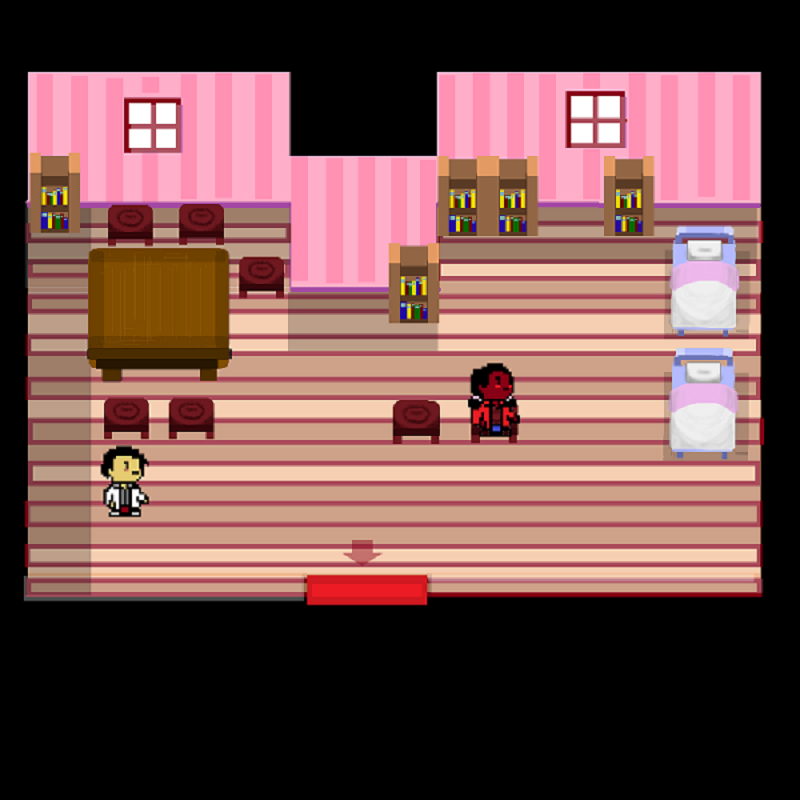
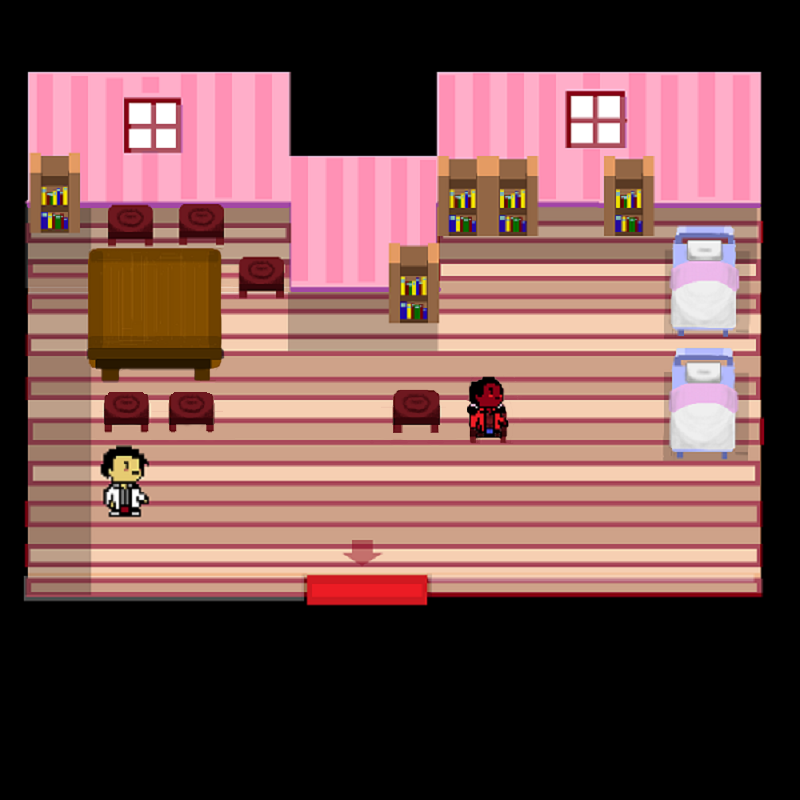
Update map 1 terminée

Changed region(s): [[0.125, 0.3125, 0.3125, 0.5625], [0.4688, 0.4375, 0.6562, 0.5625]]

diff --git a/VariablesDeJeu.java b/VariablesDeJeu.java
@@ -14,9 +14,9 @@ public class VariablesDeJeu {//création de l'unique Jframe
 		public int [] listeInterractionsAvecDresseurs  = new int[60]; //tableau contenenant la liste des combats et leur état : 0= pas fait, 1 perdu, 2 gagné
 		public String nomCarte;
 		private int listeInterractionsAvecDresseursInitiale [] = {0,0,0,0,0,0,0,0,0,0,0,0,0,0,0,0,0,0,0,0,0,0,0,0,0,0,0,0,0,0,0,0,0,0,0,0,0,0,0,0,0,0,0,0,0,0,0,0,0,0,0,0,0,0,0,0,0,0,0,0};
-		private int taTurne [][] = { {0,0,0,0,0,0,0,0,0,0,0,0,0,0,0,0,0,0,0,0,0,0,0,0,0},{0,0,0,0,0,0,0,0,0,0,0,0,0,0,0,0,0,0,0,0,0,0,0,0,0},{0,0,0,0,0,0,0,0,0,0,0,0,0,0,0,0,0,0,0,0,0,0,0,0,0},{0,0,0,0,0,0,0,0,0,0,0,0,0,0,0,0,0,0,0,0,0,0,0,0,0},{0,0,0,0,0,0,0,0,0,0,0,0,0,0,0,0,0,0,0,0,0,0,0,0,0},{0,0,0,0,0,0,0,0,0,0,0,0,0,0,0,0,0,0,0,0,0,0,0,0,0},{0,0,0,0,0,0,0,0,0,0,0,0,0,0,0,0,0,0,0,0,0,0,0,0,0},{0,0,0,0,1,1,1,1,1,0,0,0,0,0,0,0,0,0,1,1,1,1,1,1,0},{0,1,1,1,1,1,1,1,1,0,0,0,0,0,1,1,1,1,1,1,1,1,1,1,0},{0,1,1,1,1,1,1,1,1,0,0,0,1,1,1,1,1,1,1,1,1,1,1,1,0},{0,1,1,1,1,1,1,1,1,1,1,1,1,1,1,1,1,1,1,1,1,1,1,1,0},{0,1,1,1,201,201,201,0,0,0,0,0,0,0,0,1,1,1,1,1,1,1,1,1,0},{0,0,0,0,201,2,201,1,0,0,0,0,0,1,1,1,1,1,1,1,1,1,1,1,0},{0,0,0,0,201,2,201,0,0,0,0,0,0,0,0,1,1,1,1,1,1,1,1,1,0},{0,0,0,0,201,201,201,1,0,0,0,0,0,1,1,1,1,1,1,1,1,1,1,1,0},{0,1,1,1,1,1,1,1,1,1,1,1,1,1,1,1,1,1,1,1,1,1,1,1,0},{0,1,1,1,1,1,1,1,1,1,1,1,1,1,1,1,1,1,1,1,1,1,1,1,0},{0,1,1,1,1,1,1,1,1,1,1,4102,1,1,1,1,1,1,1,1,1,1,1,1,0},{0,1,1,1,1,1,1,1,1,4102,4102,4102,4102,4102,1,1,1,1,1,1,1,1,1,1,0},{0,0,0,0,0,0,0,0,0,4102,4102,4102,4102,4102,0,0,0,0,0,0,0,0,0,0,0},{0,0,0,0,0,0,0,0,0,0,0,0,0,0,0,0,0,0,0,0,0,0,0,0,0},{0,0,0,0,0,0,0,0,0,0,0,0,0,0,0,0,0,0,0,0,0,0,0,0,0},{0,0,0,0,0,0,0,0,0,0,0,0,0,0,0,0,0,0,0,0,0,0,0,0,0},{0,0,0,0,0,0,0,0,0,0,0,0,0,0,0,0,0,0,0,0,0,0,0,0,0},{0,0,0,0,0,0,0,0,0,0,0,0,0,0,0,0,0,0,0,0,0,0,0,0,0} };
-		private	int laFeyssine [][] = { {0,0,4105,4105,4105,0,0,0,0,0,0,0,0,0,0,0,0,0,0,0,0,0,0,0,0},{0,0,4105,4105,4105,0,0,0,0,0,0,0,0,0,0,0,0,0,0,0,0,0,0,0,0},{0,0,202,202,202,0,0,0,0,0,0,0,1,1,1,1,0,0,0,0,0,0,0,0,0},{0,0,2,202,202,0,0,0,0,0,0,2,203,1,1,1,0,0,0,0,0,0,0,0,0},{0,0,2,202,202,202,0,0,0,0,0,2,203,1,1,1,0,0,0,0,0,0,0,0,0},{0,0,202,202,202,1,0,0,0,0,0,203,203,1,1,1,0,0,0,0,0,0,0,0,0},{0,0,1,1,1,0,0,0,0,0,0,1,1,0,0,0,0,0,0,0,0,0,0,0,0},{0,0,1,1,1,0,0,0,0,0,0,1,1,0,0,0,0,0,0,0,0,0,0,0,0},{0,0,1,1,1,0,0,0,0,0,0,1,1,0,0,0,0,4101,4101,4101,0,0,0,0,0},{0,0,1,1,1,1,1,1,1,1,1,1,1,0,0,0,0,4101,4101,4101,0,0,0,0,0},{0,0,1,1,1,1,0,0,0,0,0,1,1,0,0,0,1,1,1,1,1,1,1,0,0},{0,0,1,1,1,1,0,0,0,0,0,1,1,0,0,0,1,1,1,1,1,1,1,0,0},{0,0,1,1,1,1,0,0,0,0,0,1,1,1,1,1,1,1,1,1,1,1,1,0,0},{0,0,1,1,1,1,0,0,0,0,0,1,1,1,1,1,0,0,0,0,0,0,0,0,0},{0,0,1,1,1,1,0,0,0,0,0,1,1,1,1,1,0,0,0,0,0,0,0,0,0},{0,0,1,1,1,1,0,0,0,0,0,1,1,1,1,1,0,0,0,0,0,0,0,0,0},{0,0,1,1,1,1,0,0,0,0,0,1,1,1,1,1,0,0,0,0,0,0,0,0,0},{0,0,1,1,1,1,0,0,0,0,0,1,1,204,204,0,0,0,4103,0,0,0,0,0,0},{0,0,1,1,1,1,0,0,0,0,0,1,1,204,2,0,0,4103,4103,0,0,0,0,0,0},{0,0,1,1,1,1,0,0,0,0,0,1,1,204,2,0,0,0,4103,0,0,0,0,0,0},{0,0,1,1,1,1,0,0,0,0,0,1,1,204,204,204,1,1,1,1,1,1,1,0,0},{0,0,1,1,1,1,0,0,0,0,0,1,1,1,1,1,1,1,1,1,1,1,1,0,0},{0,0,1,1,1,1,0,0,0,0,0,0,0,0,0,0,0,0,0,0,0,0,0,0,0},{0,0,0,0,0,0,0,0,0,0,0,0,0,0,0,0,0,0,0,0,0,0,0,0,0},{0,0,0,0,0,0,0,0,0,0,0,0,0,0,0,0,0,0,0,0,0,0,0,0,0}};
-		private int turneVoisin [][] = { {0,0,0,0,0,0,0,0,0,0,0,0,0,0,0,0,0,0,0,0,0,0,0,0,0},{0,0,0,0,0,0,0,0,0,0,0,0,0,0,0,0,0,0,0,0,0,0,0,0,0},{0,0,0,0,0,0,0,0,0,0,0,0,0,0,0,0,0,0,0,0,0,0,0,0,0},{0,0,0,0,0,0,0,0,0,0,0,0,0,0,0,0,0,0,0,0,0,0,0,0,0},{0,0,0,0,0,0,0,0,0,0,0,0,0,0,0,0,0,0,0,0,0,0,0,0,0},{0,0,0,0,0,0,0,0,0,0,0,0,0,0,0,0,0,0,0,0,0,0,0,0,0},{0,0,0,0,0,0,0,0,0,0,0,0,0,0,0,0,0,0,0,0,0,0,0,0,0},{0,0,0,0,0,0,0,0,0,0,0,0,0,0,0,0,0,1,0,0,0,0,0,0,0},{0,1,1,0,0,0,0,0,0,0,0,0,0,0,1,1,1,1,1,1,1,0,0,0,0},{0,1,1,0,0,0,0,1,1,1,1,1,0,0,1,1,1,1,1,1,1,0,0,0,0},{0,1,1,0,0,0,0,1,1,1,1,1,1,1,1,1,1,1,1,1,1,0,0,0,0},{0,1,1,0,0,0,0,1,1,1,1,1,1,1,1,205,205,205,1,1,1,0,0,0,0},{0,1,1,0,0,0,0,1,1,1,1,1,0,0,205,2,205,1,1,1,1,0,0,0,0},{0,1,1,206,206,206,1,1,1,1,1,1,1,1,205,2,205,1,1,1,1,0,0,0,0},{0,1,206,2,2,206,1,1,1,1,1,1,1,1,205,205,205,1,1,1,1,1,1,0,0},{0,1,206,2,2,206,1,1,1,1,1,1,1,1,1,1,1,1,1,1,1,1,1,0,0},{0,1,1,206,206,206,1,1,1,1,1,1,1,1,1,1,1,1,1,1,1,1,1,0,0},{0,1,1,1,1,1,1,1,1,1,1,4104,1,1,1,1,1,1,1,1,1,1,1,0,0},{0,1,1,1,1,1,1,1,1,4104,4104,4104,4104,4104,1,1,1,1,1,1,1,1,1,0,0},{0,0,0,0,0,0,0,0,0,4104,4104,4104,4104,4104,0,0,0,0,0,0,0,0,0,0,0},{0,0,0,0,0,0,0,0,0,0,0,0,0,0,0,0,0,0,0,0,0,0,0,0,0},{0,0,0,0,0,0,0,0,0,0,0,0,0,0,0,0,0,0,0,0,0,0,0,0,0},{0,0,0,0,0,0,0,0,0,0,0,0,0,0,0,0,0,0,0,0,0,0,0,0,0},{0,0,0,0,0,0,0,0,0,0,0,0,0,0,0,0,0,0,0,0,0,0,0,0,0},{0,0,0,0,0,0,0,0,0,0,0,0,0,0,0,0,0,0,0,0,0,0,0,0,0}};	
+		private int taTurne [][] = { {0,0,0,0,0,0,0,0,0,0,0,0,0,0,0,0,0,0,0,0,0,0,0,0,0},{0,0,0,0,0,0,0,0,0,0,0,0,0,0,0,0,0,0,0,0,0,0,0,0,0},{0,0,0,0,0,0,0,0,0,0,0,0,0,0,0,0,0,0,0,0,0,0,0,0,0},{0,0,0,0,0,0,0,0,0,0,0,0,0,0,0,0,0,0,0,0,0,0,0,0,0},{0,0,0,0,0,0,0,0,0,0,0,0,0,0,0,0,0,0,0,0,0,0,0,0,0},{0,0,0,0,0,0,0,0,0,0,0,0,0,0,0,0,0,0,0,0,0,0,0,0,0},{0,0,0,0,0,0,0,0,0,0,0,0,0,0,0,0,0,0,0,0,0,0,0,0,0},{0,0,0,0,1,1,1,1,1,0,0,0,0,0,0,0,0,0,1,1,1,1,1,1,0},{0,1,1,1,1,1,1,1,1,0,0,0,0,0,1,1,1,1,1,1,1,1,1,1,0},{0,1,1,1,1,1,1,1,1,0,0,0,1,1,1,1,1,1,1,1,1,1,1,1,0},{0,1,1,1,1,1,1,1,1,1,1,1,1,1,1,1,1,1,1,1,1,1,1,1,0},{0,1,1,1,201,201,201,0,0,0,0,0,0,0,0,1,1,1,1,1,1,1,1,1,0},{0,0,0,0,201,2,201,1,1,0,0,0,0,1,1,1,1,1,1,1,1,1,1,1,0},{0,0,0,0,201,2,201,0,0,0,0,0,0,0,0,1,1,1,1,1,1,1,1,1,0},{0,0,0,0,201,201,201,1,0,0,0,0,0,1,1,1,1,1,1,1,1,1,1,1,0},{0,1,1,1,1,1,1,1,1,1,1,1,1,1,1,1,1,1,1,1,1,1,1,1,0},{0,1,1,1,1,1,1,1,1,1,1,1,1,1,1,1,1,1,1,1,1,1,1,1,0},{0,1,1,1,1,1,1,1,1,1,1,4102,1,1,1,1,1,1,1,1,1,1,1,1,0},{0,1,1,1,1,1,1,1,1,1,4102,4102,4102,4102,1,1,1,1,1,1,1,1,1,1,0},{0,0,0,0,0,0,0,0,0,4102,4102,4102,4102,4102,0,0,0,0,0,0,0,0,0,0,0},{0,0,0,0,0,0,0,0,0,0,0,0,0,0,0,0,0,0,0,0,0,0,0,0,0},{0,0,0,0,0,0,0,0,0,0,0,0,0,0,0,0,0,0,0,0,0,0,0,0,0},{0,0,0,0,0,0,0,0,0,0,0,0,0,0,0,0,0,0,0,0,0,0,0,0,0},{0,0,0,0,0,0,0,0,0,0,0,0,0,0,0,0,0,0,0,0,0,0,0,0,0},{0,0,0,0,0,0,0,0,0,0,0,0,0,0,0,0,0,0,0,0,0,0,0,0,0} };
+		private	int laFeyssine [][] = { {0,0,4105,4105,4105,0,0,0,0,0,0,0,0,0,0,0,0,0,0,0,0,0,0,0,0},{0,0,4105,4105,4105,0,0,0,0,0,0,0,0,0,0,0,0,0,0,0,0,0,0,0,0},{0,0,202,202,202,0,0,0,0,0,0,0,1,1,1,1,0,0,0,0,0,0,0,0,0},{0,0,2,202,202,0,0,0,0,0,0,2,203,1,1,1,0,0,0,0,0,0,0,0,0},{0,0,2,202,202,202,0,0,0,0,0,2,203,1,1,1,0,0,0,0,0,0,0,0,0},{0,0,202,202,202,1,0,0,0,0,0,203,203,1,1,1,0,0,0,0,0,0,0,0,0},{0,0,1,1,1,0,0,0,0,0,0,1,1,0,0,0,0,0,0,0,0,0,0,0,0},{0,0,1,1,1,0,0,0,0,0,0,1,1,0,0,0,0,0,0,0,0,0,0,0,0},{0,0,1,1,1,0,0,0,0,0,0,1,1,0,0,0,0,4101,4101,4101,0,0,0,0,0},{0,0,1,1,1,1,0,1,1,1,0,1,1,0,0,0,0,4101,4101,4101,0,0,0,0,0},{0,0,1,1,1,1,1,0,0,0,1,1,1,0,0,0,1,1,1,1,1,1,1,0,0},{0,0,1,1,1,1,0,0,0,0,0,1,1,0,0,0,1,1,1,1,1,1,1,0,0},{0,0,1,1,1,1,0,0,0,0,0,1,1,1,1,1,1,1,1,1,1,1,1,0,0},{0,0,1,1,1,1,0,0,0,0,0,1,1,1,1,1,0,0,0,0,0,0,0,0,0},{0,0,1,1,1,1,0,0,0,0,0,1,1,1,1,1,0,0,0,0,0,0,0,0,0},{0,0,1,1,1,1,0,0,0,0,0,1,1,1,1,1,0,0,0,0,0,0,0,0,0},{0,0,1,1,1,1,0,0,0,0,0,1,1,1,1,1,0,0,0,0,0,0,0,0,0},{0,0,1,1,1,1,0,0,0,0,0,1,1,204,204,0,0,0,4103,0,0,0,0,0,0},{0,0,1,1,1,1,0,0,0,0,0,1,1,204,2,0,0,4103,4103,0,0,0,0,0,0},{0,0,1,1,1,1,0,0,0,0,0,1,1,204,2,0,0,0,4103,0,0,0,0,0,0},{0,0,1,1,1,1,0,0,0,0,0,1,1,204,204,204,1,1,1,1,1,1,1,0,0},{0,0,1,1,1,1,0,0,0,0,0,1,1,1,1,1,1,1,1,1,1,1,1,0,0},{0,0,1,1,1,1,0,0,0,0,0,0,0,0,0,0,0,0,0,0,0,0,0,0,0},{0,0,0,0,0,0,0,0,0,0,0,0,0,0,0,0,0,0,0,0,0,0,0,0,0},{0,0,0,0,0,0,0,0,0,0,0,0,0,0,0,0,0,0,0,0,0,0,0,0,0}};
+		private int turneVoisin [][] = { {0,0,0,0,0,0,0,0,0,0,0,0,0,0,0,0,0,0,0,0,0,0,0,0,0},{0,0,0,0,0,0,0,0,0,0,0,0,0,0,0,0,0,0,0,0,0,0,0,0,0},{0,0,0,0,0,0,0,0,0,0,0,0,0,0,0,0,0,0,0,0,0,0,0,0,0},{0,0,0,0,0,0,0,0,0,0,0,0,0,0,0,0,0,0,0,0,0,0,0,0,0},{0,0,0,0,0,0,0,0,0,0,0,0,0,0,0,0,0,0,0,0,0,0,0,0,0},{0,0,0,0,0,0,0,0,0,0,0,0,0,0,0,0,0,0,0,0,0,0,0,0,0},{0,0,0,0,0,0,0,0,0,0,0,0,0,0,0,0,0,0,0,0,0,0,0,0,0},{0,0,0,0,0,0,0,0,0,0,0,0,0,0,0,0,0,1,0,0,0,0,0,0,0},{0,1,1,0,0,0,0,0,0,0,0,0,0,0,1,1,1,1,1,1,1,0,0,0,0},{0,1,1,0,0,0,0,1,1,1,1,1,0,0,1,1,1,1,1,1,1,0,0,0,0},{0,1,1,0,0,0,0,1,1,1,1,1,1,1,1,1,1,1,1,1,1,0,0,0,0},{0,1,1,0,0,0,0,1,1,1,1,1,1,1,1,205,205,205,1,1,1,0,0,0,0},{0,1,1,0,0,0,0,1,1,1,1,1,0,0,205,2,205,1,1,1,1,0,0,0,0},{0,1,1,206,206,206,1,1,1,1,1,1,1,1,205,2,205,1,1,1,1,0,0,0,0},{0,1,206,2,2,206,1,1,1,1,1,1,1,1,205,205,205,1,1,1,1,1,1,0,0},{0,1,206,2,2,206,1,1,1,1,1,1,1,1,1,1,1,1,1,1,1,1,1,0,0},{0,1,1,206,206,206,1,1,1,1,1,1,1,1,1,1,1,1,1,1,1,1,1,0,0},{0,1,1,1,1,1,1,1,1,1,1,4104,1,1,1,1,1,1,1,1,1,1,1,0,0},{0,1,1,1,1,1,1,1,1,1,4104,4104,4104,4104,1,1,1,1,1,1,1,1,1,0,0},{0,0,0,0,0,0,0,0,0,4104,4104,4104,4104,4104,0,0,0,0,0,0,0,0,0,0,0},{0,0,0,0,0,0,0,0,0,0,0,0,0,0,0,0,0,0,0,0,0,0,0,0,0},{0,0,0,0,0,0,0,0,0,0,0,0,0,0,0,0,0,0,0,0,0,0,0,0,0},{0,0,0,0,0,0,0,0,0,0,0,0,0,0,0,0,0,0,0,0,0,0,0,0,0},{0,0,0,0,0,0,0,0,0,0,0,0,0,0,0,0,0,0,0,0,0,0,0,0,0},{0,0,0,0,0,0,0,0,0,0,0,0,0,0,0,0,0,0,0,0,0,0,0,0,0}};	
 		private	int travee1 [][] = {{0,0,0,0,0,0,0,0,0,0,0,0,0,0,0,0,0,0,0,0,0,4202,4202,4202,0},{0,0,3,3,307,5,5,5,5,5,5,5,1,1,1,1,1,1,6,6,6,4202,4202,4202,0},{0,0,307,307,307,5,5,5,1,1,5,1,1,1,1,1,1,1,6,6,6,6,1,0,0},{0,0,0,0,0,0,0,0,0,0,1,0,0,0,0,0,0,0,0,0,0,0,1,0,0},{0,0,0,0,0,0,0,0,0,0,1,0,0,0,0,0,0,0,0,0,0,0,1,0,0},{0,0,0,0,0,0,0,0,0,0,1,0,0,0,0,0,0,0,0,0,0,0,5,0,0},{0,0,0,0,0,0,0,0,0,0,1,0,0,0,0,0,0,0,0,0,0,0,5,0,0},{0,0,0,1,1,1,1,1,1,1,5,5,5,5,5,5,5,1,1,5,5,5,5,0,0},{0,0,0,1,1,1,1,1,1,1,5,5,5,5,5,5,5,5,5,5,5,5,5,0,0},{0,0,0,0,0,0,0,0,0,0,0,5,1,1,5,5,5,5,1,6,6,6,1,0,0},{0,0,0,0,0,0,0,0,0,0,0,1,1,1,5,5,5,5,6,6,6,6,1,0,0},{0,0,0,0,0,0,0,0,0,0,0,1,1,1,1,5,0,0,0,0,0,0,0,0,0},{0,0,0,0,0,0,0,0,0,0,0,1,1,1,1,5,0,0,0,0,0,0,0,0,0},{0,0,0,3,308,5,5,5,5,5,1,1,1,1,5,5,0,0,0,0,0,0,0,0,0},{0,0,0,3,308,5,5,5,5,5,1,1,1,1,5,5,0,0,0,0,0,0,0,0,0},{0,0,0,308,308,5,5,5,5,1,6,6,6,1,1,5,5,5,5,1,1,309,3,0,0},{0,0,0,1,1,5,5,5,5,6,6,6,6,1,1,1,1,1,1,1,1,309,309,0,0},{0,0,0,0,0,0,0,0,0,0,0,0,0,0,0,1,1,0,0,0,0,0,0,0,0},{0,0,0,0,0,0,0,0,0,0,0,0,0,0,0,1,1,0,0,0,0,0,0,0,0},{0,0,310,3,310,5,5,5,5,1,1,1,1,1,1,1,1,5,5,5,5,5,5,0,0},{0,0,310,3,310,5,5,5,5,1,1,1,1,1,1,1,1,5,5,5,5,5,5,0,0},{0,0,0,0,0,0,0,0,0,0,0,0,0,0,0,0,0,0,5,5,5,5,5,0,0},{0,0,0,1,1,1,1,1,5,5,5,1,1,1,1,1,5,5,5,5,5,5,5,0,0},{0,0,4201,4201,4201,1,1,1,1,5,1,1,1,1,1,5,5,5,5,5,5,5,5,0,0},{0,0,4201,4201,4201,0,0,0,0,0,0,0,0,0,0,0,0,0,0,0,0,0,0,0,0}};
 		private	int travee2 [][] = {{0,0,4302,4302,4302,0,0,0,0,0,0,0,0,0,0,0,0,0,0,0,0,0,0,0,0},{0,0,4302,4302,4302,6,6,1,1,1,1,1,1,5,5,5,5,5,5,5,5,1,0,0,0},{0,0,1,1,6,6,6,1,1,1,1,1,1,1,5,1,1,5,5,5,1,1,0,0,0},{0,0,1,0,0,0,0,0,0,0,0,0,0,0,0,1,0,0,0,0,0,0,0,0,0},{0,0,1,0,0,0,0,0,0,0,0,0,0,0,0,1,0,0,0,0,0,0,0,0,0},{0,0,5,0,0,0,0,0,0,0,0,0,0,0,0,1,0,0,0,0,0,0,0,0,0},{0,0,5,0,0,0,0,0,0,0,0,0,0,0,0,1,0,0,0,0,0,0,0,0,0},{0,0,5,5,5,5,1,1,1,5,5,5,5,5,5,1,1,1,311,3,311,1,0,0,0},{0,0,5,5,5,5,5,5,5,5,5,5,5,5,5,1,1,1,311,311,311,1,0,0,0},{0,0,1,6,6,6,1,5,5,5,5,1,1,5,0,0,0,0,0,0,0,0,0,0,0},{0,0,1,6,6,6,6,5,5,5,5,1,1,1,0,0,0,0,0,0,0,0,0,0,0},{0,0,0,0,0,0,0,0,0,5,1,1,1,1,0,0,0,0,0,0,0,0,0,0,0},{0,0,0,0,0,0,0,0,0,5,1,1,1,1,0,0,0,0,0,0,0,0,0,0,0},{0,0,0,0,0,0,0,0,0,5,5,1,1,1,1,5,5,5,5,5,5,5,0,0,0},{0,0,0,0,0,0,0,0,0,5,5,1,1,1,1,5,5,5,5,5,5,5,0,0,0},{0,0,3,312,1,1,5,5,5,5,1,1,6,6,6,1,5,5,5,5,5,1,0,0,0},{0,0,312,312,1,1,1,1,1,1,1,1,6,6,6,6,1,5,5,5,1,1,0,0,0},{0,0,0,0,0,0,0,0,1,1,0,0,0,0,0,0,0,0,0,0,0,0,0,0,0},{0,0,0,0,0,0,0,0,1,1,0,0,0,0,0,0,0,0,0,0,0,0,0,0,0},{0,0,5,5,5,5,5,5,1,1,1,1,1,1,1,1,5,5,5,5,5,1,1,0,0},{0,0,5,5,5,5,5,5,1,1,1,1,1,1,1,1,5,5,5,5,5,1,1,0,0},{0,0,5,5,5,5,5,0,0,0,0,0,0,0,0,0,0,0,0,0,0,0,0,0,0},{0,0,5,5,5,5,5,5,5,1,1,1,1,1,5,5,5,1,1,1,1,1,0,0,0},{0,0,5,5,5,5,5,5,5,5,1,1,1,1,1,5,1,1,1,1,4301,4301,4301,0,0},{0,0,5,5,5,5,5,5,5,5,1,1,1,1,1,5,1,1,1,1,4301,4301,4301,0,0}};
 		private	int pc [][] = {{0,0,0,0,0,0,0,0,0,0,0,0,0,0,0,0,0,0,0,0,0,0,0,0,0},{0,0,0,0,0,0,0,0,0,0,0,0,0,0,0,0,0,0,0,0,0,0,0,0,0},{0,0,0,0,0,0,0,0,0,0,0,0,0,0,1,1,1,1,1,1,1,1,1,4414,4414},{0,0,0,0,0,0,0,0,0,0,0,0,0,0,1,1,1,1,1,1,1,1,1,0,0},{0,0,0,0,0,0,0,0,0,0,0,4408,0,0,1,1,1,0,0,0,0,0,1,0,0},{0,0,0,0,0,0,0,0,0,0,4408,4408,4408,0,1,1,1,0,0,0,0,0,1,0,0},{0,0,0,0,1,1,1,1,1,1,4408,4408,4408,1,1,0,0,0,0,0,0,0,1,0,0},{0,0,0,1,1,1,1,1,1,1,1,1,1,1,1,0,0,0,4412,4412,4412,0,1,0,0},{0,0,0,0,1,1,1,1,1,1,1,1,1,1,1,0,0,0,4412,4412,4412,0,1,0,0},{0,0,0,1,1,1,1,1,1,1,1,1,1,1,1,0,0,0,4412,4412,4412,0,1,0,0},{0,0,0,0,1,1,0,0,1,1,1,1,1,1,1,1,1,1,1,1,1,1,1,0,0},{0,0,0,0,1,0,0,0,0,1,1,1,1,1,1,1,1,1,1,1,1,1,1,0,0},{0,0,0,1,1,0,0,0,0,1,1,1,1,1,1,1,1,1,1,1,1,1,1,0,0},{0,0,0,0,1,0,0,0,0,1,1,1,1,1,1,1,1,1,1,1,1,1,1,0,0},{0,0,0,0,1,4402,4402,4402,0,1,1,1,1,1,1,1,1,1,1,1,1,1,1,0,0},{0,0,0,1,1,4402,4402,4402,0,1,1,1,1,0,0,0,0,1,0,0,0,0,1,0,0},{0,0,0,0,1,1,1,1,1,1,1,1,1,0,0,0,0,1,0,0,0,0,1,0,0},{0,0,0,0,1,1,1,0,1,1,1,1,1,0,0,0,0,1,0,0,0,0,1,0,0},{0,0,0,1,1,1,0,0,0,1,1,1,1,0,4404,0,0,1,0,4406,0,0,1,0,0},{0,0,0,0,1,1,0,0,0,1,1,1,1,4404,4404,4404,0,1,4406,4406,4406,0,1,0,0},{0,0,0,0,1,1,1,1,1,1,1,1,1,1,1,1,1,1,1,1,1,1,1,0,0},{0,0,0,0,1,1,1,1,1,1,1,1,1,1,1,1,1,1,1,1,1,1,1,0,0},{0,0,0,0,1,1,1,1,1,1,1,1,1,1,1,1,1,1,1,1,1,1,1,0,0},{0,0,0,0,0,0,0,0,0,4401,4401,4401,4401,0,0,0,0,0,0,0,0,0,0,0,0},{0,0,0,0,0,0,0,0,0,4401,4401,4401,4401,0,0,0,0,0,0,0,0,0,0,0,0}};
